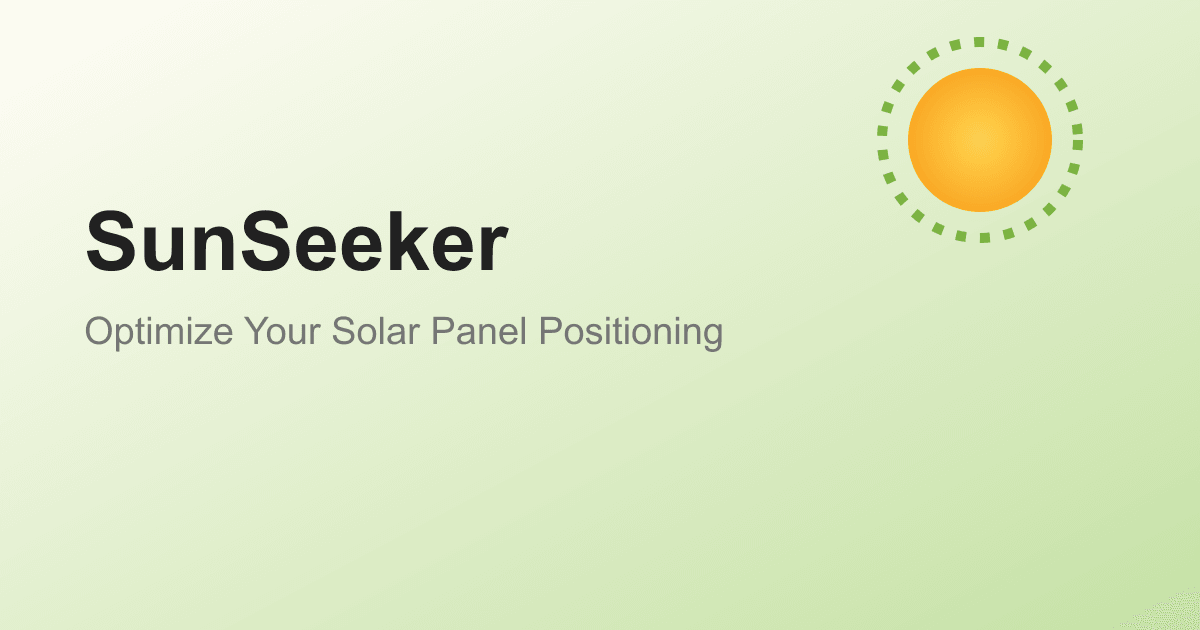
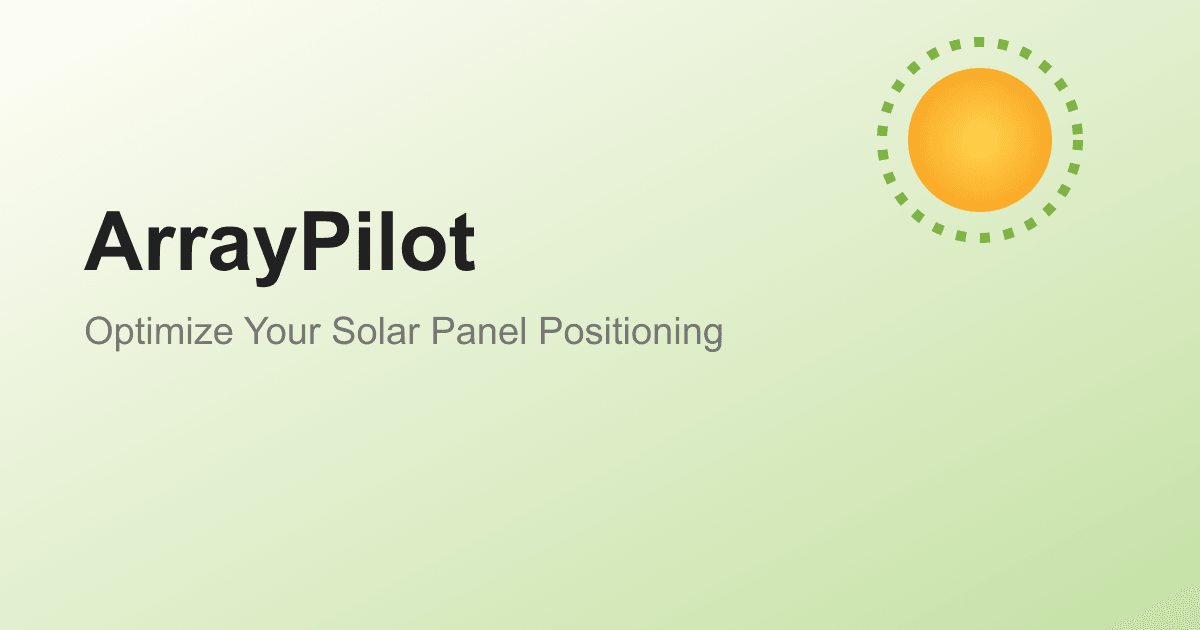
Rename marketing site to ArrayPilot

Changed region(s): [[0.0617, 0.3317, 0.4317, 0.4524], [0.925, 0.9349, 1.0, 1.0]]

diff --git a/tests/app.spec.ts b/tests/app.spec.ts
@@ -58,7 +58,7 @@ test.describe('Landing Page Tests', () => {
     await howItWorks.scrollIntoViewIfNeeded();
 
     await expect(howItWorks).toBeVisible();
-    await expect(page.locator('h2:has-text("How SunSeeker Works")')).toBeVisible();
+    await expect(page.locator('h2:has-text("How ArrayPilot Works")')).toBeVisible();
 
     // Check 3 steps
     const steps = page.locator('.step');
@@ -114,7 +114,7 @@ test.describe('About Page Tests', () => {
     await page.goto(`${BASE}/about`);
 
     // Check main heading
-    await expect(page.locator('.about-hero h1:has-text("About SunSeeker")')).toBeVisible();
+    await expect(page.locator('.about-hero h1:has-text("About ArrayPilot")')).toBeVisible();
 
     await takeScreenshot(page, '07-about-hero');
   });
@@ -378,7 +378,7 @@ test.describe('Link Tests', () => {
 
   test('should have working download page', async ({ page }) => {
     await page.goto(`${BASE}/download`);
-    await expect(page.locator('h1:has-text("SunSeeker Release Updates")')).toBeVisible();
+    await expect(page.locator('h1:has-text("ArrayPilot Release Updates")')).toBeVisible();
     await expect(page.locator('#ios')).toBeVisible();
     await expect(page.locator('#android')).toBeVisible();
   });

diff --git a/src/consts.ts b/src/consts.ts
@@ -1,7 +1,7 @@
-// SunSeeker - Solar Panel Positioning App
+// ArrayPilot - Solar Panel Positioning App
 // Global constants for SEO and branding
 
-export const SITE_TITLE = 'SunSeeker - Solar Panel Angle Calculator';
+export const SITE_TITLE = 'ArrayPilot - Solar Panel Angle Calculator';
 export const SITE_DESCRIPTION = 'Free app that calculates your solar panel tilt angle. Uses your location, shows seasonal adjustments, works with bifacial panels. Point your phone camera at your panels to see the target angle.';
 
 export const SITE_KEYWORDS = 'solar panel angle calculator, solar panel tilt calculator, best angle for solar panels, bifacial solar panel, solar panel positioning app, seasonal solar panel adjustment';

diff --git a/src/styles/global.css b/src/styles/global.css
@@ -1,5 +1,5 @@
 /*
-  SunSeeker Global Styles
+  ArrayPilot Global Styles
   Theme: Grassy, sunny, natural - minimalist design
 */
 

diff --git a/src/content/blog/bifacial-solar-panel-guide.md b/src/content/blog/bifacial-solar-panel-guide.md
@@ -11,7 +11,7 @@ Bifacial solar panels have cells on both sides. The front works like any panel. 
 
 This sounds like free energy, and partly it is. Depending on the installation, the rear side can add 5-30% more energy, according to research published in Energies (MDPI, 2025). But most of the articles you'll read about bifacial panels focus on the technology and skip the part that actually determines whether you'll see those gains: what's under the panels and how high they sit.
 
-Most angle calculators and solar tools ignore bifacial entirely. That's what pushed us to build bifacial support into SunSeeker. The math is different for dual-sided panels, and getting it wrong means paying a premium for cells you won't use.
+Most angle calculators and solar tools ignore bifacial entirely. That's what pushed us to build bifacial support into ArrayPilot. The math is different for dual-sided panels, and getting it wrong means paying a premium for cells you won't use.
 
 ## The ground surface makes or breaks your bifacial investment
 
@@ -53,7 +53,7 @@ What does change slightly:
 - The optimal angle depends more on what's behind and below than on the front-side geometry
 - If your ground surface has high albedo, the rear contribution is less sensitive to exact tilt
 
-The SunSeeker app accounts for these differences in its bifacial mode. The adjustments are subtle but they compound over a year.
+The ArrayPilot app accounts for these differences in its bifacial mode. The adjustments are subtle but they compound over a year.
 
 ## When vertical mounting makes sense
 
@@ -85,7 +85,7 @@ Bifacial panels cost 5-15% more than comparable monofacial panels. The bifacial 
 
 A rough guide: if your installation can realistically capture 10% or more rear-side gain, bifacial pays for its premium within 3-5 years. If rear-side gain is under 5%, you're better off spending the premium on an extra monofacial panel instead.
 
-## What SunSeeker does for bifacial installations
+## What ArrayPilot does for bifacial installations
 
 The app has a dedicated bifacial mode. When you enable it:
 
@@ -96,4 +96,4 @@ The app has a dedicated bifacial mode. When you enable it:
 
 No other solar calculator does this. Most tools assume single-sided panels. If you're installing bifacial panels without accounting for albedo and height, you're guessing at a variable that determines whether your extra investment pays off or not.
 
-[Get SunSeeker release updates](/sunseeker/download) | [Find your panel angle](/sunseeker/blog/optimal-solar-panel-angle-guide) | [Solar energy basics](/sunseeker/blog/understanding-solar-energy-basics)
+[Get ArrayPilot release updates](/sunseeker/download) | [Find your panel angle](/sunseeker/blog/optimal-solar-panel-angle-guide) | [Solar energy basics](/sunseeker/blog/understanding-solar-energy-basics)

diff --git a/src/content/blog/optimal-solar-panel-angle-guide.md b/src/content/blog/optimal-solar-panel-angle-guide.md
@@ -62,7 +62,7 @@ A panel fixed at the winter angle still captures 81-88% of the energy compared t
 
 If your panels are on a steep roof and adjusting means a ladder and 30 minutes of careful work, the math is less appealing. At $0.15/kWh, the seasonal gain on a 6 kW system might be worth $50-80 per year. Worth it to some people, not to others.
 
-SunSeeker sends optional reminders around each equinox and solstice. If you want to adjust, the reminders help. If you don't, turn them off. You're not leaving huge amounts of energy on the table either way.
+ArrayPilot sends optional reminders around each equinox and solstice. If you want to adjust, the reminders help. If you don't, turn them off. You're not leaving huge amounts of energy on the table either way.
 
 ## Direction matters as much as tilt
 
@@ -109,7 +109,7 @@ Above 35 degrees latitude, tilted racking on a flat roof usually pays for itself
 
 **Ignoring the physical constraints.** Your roof has a pitch. It faces a direction. Unless you're building a custom racking system, your tilt and azimuth are largely dictated by your roof. The calculation tells you what's ideal; your roof tells you what's possible. Usually the gap between ideal and possible is small enough that solar still makes financial sense.
 
-## Where SunSeeker helps
+## Where ArrayPilot helps
 
 The app does the latitude calculation automatically using your phone's GPS. It also adjusts for the current date, so you get a seasonally appropriate angle recommendation rather than a static number.
 
@@ -123,4 +123,4 @@ For most people: set tilt equal to latitude, face the equator, and move on. If y
 
 The app makes the calculation easy. The hard part is usually physical: getting up there and adjusting the hardware.
 
-[Get SunSeeker release updates](/sunseeker/download) | [Winter angle guide](/sunseeker/blog/winter-solar-panel-angle) | [Maintenance tips](/sunseeker/blog/solar-panel-maintenance-tips)
+[Get ArrayPilot release updates](/sunseeker/download) | [Winter angle guide](/sunseeker/blog/winter-solar-panel-angle) | [Maintenance tips](/sunseeker/blog/solar-panel-maintenance-tips)

diff --git a/src/content/blog/understanding-solar-energy-basics.md b/src/content/blog/understanding-solar-energy-basics.md
@@ -66,7 +66,7 @@ My friend's rooftop mystery had a simple answer: heat. But temperature is just o
 
 **Temperature** works against you on hot days. Panel efficiency drops roughly 0.3-0.5% for every degree Celsius above 25C (77F). On a 40C day, that's a 5-7% efficiency loss. This is why my friend's panels performed better in the cooler morning. Panels in cool, sunny climates (think Colorado mountains) often outperform panels in hot deserts per peak sun hour.
 
-**Panel angle** determines how directly sunlight hits the surface. Panels perpendicular to the sun's rays generate the most power. Since the sun's path changes with the seasons, the ideal angle changes too. A tilt equal to your latitude is a solid year-round starting point. SunSeeker calculates the exact angle for your location and current date.
+**Panel angle** determines how directly sunlight hits the surface. Panels perpendicular to the sun's rays generate the most power. Since the sun's path changes with the seasons, the ideal angle changes too. A tilt equal to your latitude is a solid year-round starting point. ArrayPilot calculates the exact angle for your location and current date.
 
 **Shading** is disproportionately damaging. A homeowner in Portland named Sarah spent weeks optimizing her panel angles only to realize a neighbor's oak tree was shading two panels every afternoon. Removing the shade problem gained her more production than all the angle tweaking combined. Even a small shadow across one cell can reduce a panel's output by 30-80%, depending on the wiring configuration. Before worrying about angles, make sure your panels have unobstructed sun from 9 AM to 3 PM.
 
@@ -114,8 +114,8 @@ Before you spend a dollar, do two things:
 
 1. **Check your site.** Walk outside at noon and look at your roof. Count the hours of unobstructed sun between 9 AM and 3 PM. If you have fewer than 4 hours of direct sun, solar may not make financial sense at your location. No amount of panel technology overcomes a bad site.
 
-2. **Find your angle.** SunSeeker uses your phone's GPS and sensors to calculate the optimal panel tilt for your exact location. Point the camera at your panels (or proposed panel location) and see in real time whether your angle is right. The app also sends seasonal adjustment reminders if you have an adjustable mounting system. It's free to download, and you can check your site before talking to any installer.
+2. **Find your angle.** ArrayPilot uses your phone's GPS and sensors to calculate the optimal panel tilt for your exact location. Point the camera at your panels (or proposed panel location) and see in real time whether your angle is right. The app also sends seasonal adjustment reminders if you have an adjustable mounting system. It's free to download, and you can check your site before talking to any installer.
 
 The biggest gains in solar don't come from chasing the latest panel technology. They come from getting the basics right: good placement, correct angle, minimal shading, and clean panels. That's where most of the money is.
 
-[Get SunSeeker release updates](/sunseeker/download) | [Read the panel angle guide](/sunseeker/blog/optimal-solar-panel-angle-guide) | [Maintenance tips](/sunseeker/blog/solar-panel-maintenance-tips)
+[Get ArrayPilot release updates](/sunseeker/download) | [Read the panel angle guide](/sunseeker/blog/optimal-solar-panel-angle-guide) | [Maintenance tips](/sunseeker/blog/solar-panel-maintenance-tips)

diff --git a/README.md b/README.md
@@ -1,6 +1,6 @@
-# SunSeeker Website
+# ArrayPilot Website
 
-Marketing site and blog for SunSeeker, built with Astro and deployed to GitHub Pages.
+Marketing site and blog for ArrayPilot, built with Astro and deployed to GitHub Pages.
 
 ## Tech Stack
 

diff --git a/src/content/blog/solar-panel-maintenance-tips.md b/src/content/blog/solar-panel-maintenance-tips.md
@@ -59,7 +59,7 @@ If you have a monitoring app (most modern inverters come with one), check it wee
 - Gradual decline beyond the expected 0.4% per year degradation
 - Inverter error codes (most common: ground fault, arc fault, or grid frequency errors)
 
-SunSeeker tracks expected versus actual production for your location. A sudden drop of more than 15% that isn't explained by weather means something needs attention.
+ArrayPilot tracks expected versus actual production for your location. A sudden drop of more than 15% that isn't explained by weather means something needs attention.
 
 ## Critter problems are real
 
@@ -131,4 +131,4 @@ Total DIY time per year: maybe 3 hours. That's it.
 
 The panels themselves are the most reliable part of your solar system. NREL data shows modern mono panels degrade at about 0.4% per year. After 25 years, they're still producing nearly 90% of their original output. The rest of the system, inverters, wiring, mounting hardware, needs more attention. Focus your maintenance time there.
 
-[Get SunSeeker release updates](/sunseeker/download) | [Solar energy basics](/sunseeker/blog/understanding-solar-energy-basics) | [Find your panel angle](/sunseeker/blog/optimal-solar-panel-angle-guide)
+[Get ArrayPilot release updates](/sunseeker/download) | [Solar energy basics](/sunseeker/blog/understanding-solar-energy-basics) | [Find your panel angle](/sunseeker/blog/optimal-solar-panel-angle-guide)

diff --git a/src/content/blog/winter-solar-panel-angle.md b/src/content/blog/winter-solar-panel-angle.md
@@ -77,7 +77,7 @@ March or early April, when spring arrives, I flatten them back. Again, approxima
 
 Between adjustments, I'll clear heavy snow with a roof rake when it's convenient. Light dustings I ignore entirely.
 
-SunSeeker sends optional reminders around each solstice and equinox if you want them. Useful if you're the type who forgets (I am). But if the reminders stress you out, turn them off. Set your panels to your latitude and leave them. The annual difference between "optimized seasonal adjustment" and "set it and forget it" is single-digit percentages.
+ArrayPilot sends optional reminders around each solstice and equinox if you want them. Useful if you're the type who forgets (I am). But if the reminders stress you out, turn them off. Set your panels to your latitude and leave them. The annual difference between "optimized seasonal adjustment" and "set it and forget it" is single-digit percentages.
 
 ## How much does winter really cost you?
 
@@ -96,4 +96,4 @@ Solar panels work in winter. They produce less, but they still contribute real p
 
 If you have an easy setup, adjust seasonally. If you don't, set your tilt to your latitude and move on. The panels will keep working either way.
 
-[Get SunSeeker release updates](/sunseeker/download) | [Find your optimal angle](/sunseeker/blog/optimal-solar-panel-angle-guide) | [Solar energy basics](/sunseeker/blog/understanding-solar-energy-basics)
+[Get ArrayPilot release updates](/sunseeker/download) | [Find your optimal angle](/sunseeker/blog/optimal-solar-panel-angle-guide) | [Solar energy basics](/sunseeker/blog/understanding-solar-energy-basics)